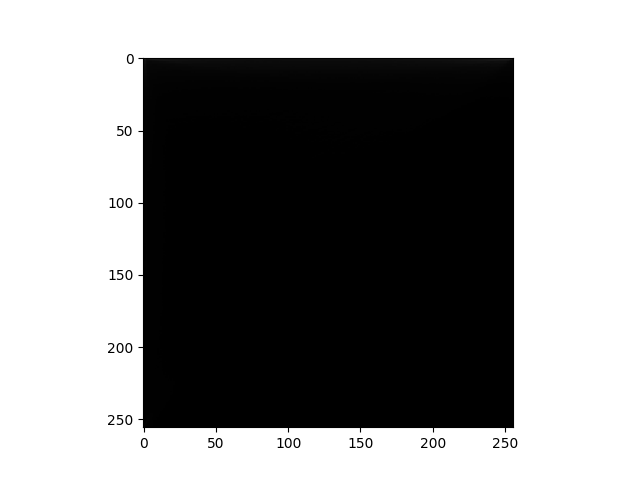
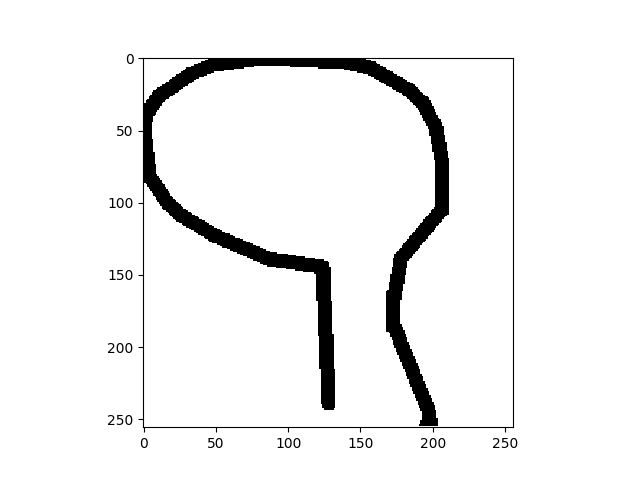
Aaa

diff --git a/create_bitmap.py b/create_bitmap.py
@@ -5,6 +5,27 @@ import math
 BITMAP_SIZE = 256
 STROKE_RADIUS = 5
 
+def distance_line(x, y, start_point, end_point):
+    # find distance
+    line_vec = end_point - start_point
+    point_vec = np.array([x, y]) - start_point
+    projection = (point_vec @ line_vec) * line_vec / (line_vec @ line_vec)
+    point = projection + start_point
+
+    # check if point within the line segment
+    if point[0] < start_point[0]:
+        distance = math.sqrt(point_vec @ point_vec)
+    elif point[0] > end_point[0]:
+        distance = math.sqrt((end_point[0] - x) ** 2 + (end_point[1] - y) ** 2)
+    else:
+        # along the line
+        distance_vec = point_vec - projection
+        distance = math.sqrt(distance_vec @ distance_vec)
+
+    return distance
+
+
+
 def generate_bitmap(filename):
     for json_obj in get_data(filename):
         # create 2D array
@@ -41,58 +62,41 @@ def generate_bitmap(filename):
 
                 start_point = np.array([x1, y1])
                 end_point = np.array([x2, y2])
-                line_vec = end_point - start_point
-                for x in range(start_x, final_x):
+                for y in range(start_y, final_y):
+                    low = start_x
+                    high = final_x
+
+                    while low < high:
+                        mid = (low + high) // 2
+
+                        if distance_line(mid, y, start_point, end_point) <= STROKE_RADIUS:
+                            high = mid - 1
+                        else:
+                            low = mid + 1
+
+                    
                     prev_distance = 0
                     distance = 0
-                    for y in range(start_y, final_y):
-                        point_vec = np.array([x, y]) - start_point
+                    for x in range(low, final_x):
                         prev_distance = distance
-
-                        # find distance
-                        projection = (point_vec @ line_vec) * line_vec / (line_vec @ line_vec)
-                        point = projection + start_point
-
-                        # check if point within the line segment
-                        if point[0] < x1:
-                            distance = math.sqrt(point_vec @ point_vec)
-                        elif point[0] > x2:
-                            distance = math.sqrt((x2 - x) ** 2 + (y2 - y) ** 2)
-                        else:
-                            # along the line
-                            distance_vec = point_vec - projection
-                            distance = math.sqrt(distance_vec @ distance_vec)
-
+                        distance = distance_line(x, y, start_point, end_point)
                         if distance <= STROKE_RADIUS:
                             bitmap[y][x] = 0
                         elif prev_distance != 0 and distance > prev_distance:
                             break
-           
-                # m = (y2 - y1) / (x2 - x1)
-                # b = y1 - m * x1
-                # prev_y = y1
-                # for x in range(x1, x2 + 1):
-                #     y = round(m*x + b)
-                #    
-                #     bitmap[y][x] = 0
-                #
-                #     if abs(prev_y - y) > 1:
-                #         for inter_y in range(prev_y, y):
-                #             bitmap[inter_y][x] = 0
-                #
-                #     prev_y = y
-                #
 
         yield bitmap
 
 if __name__ == "__main__":
-    from matplotlib import pyplot as plt
+    # from matplotlib import pyplot as plt
     
     data_set = generate_bitmap("dataset/mushroom.ndjson")
     data = next(data_set)
     
-    plt.imshow(data, interpolation='nearest', cmap='gray', vmin=0, vmax=1)
-    plt.savefig('output_image.png')
+    # plt.imshow(data, interpolation='nearest', cmap='gray', vmin=0, vmax=1)
+    # plt.savefig('output_image.png')
+
+
     
 
                 
